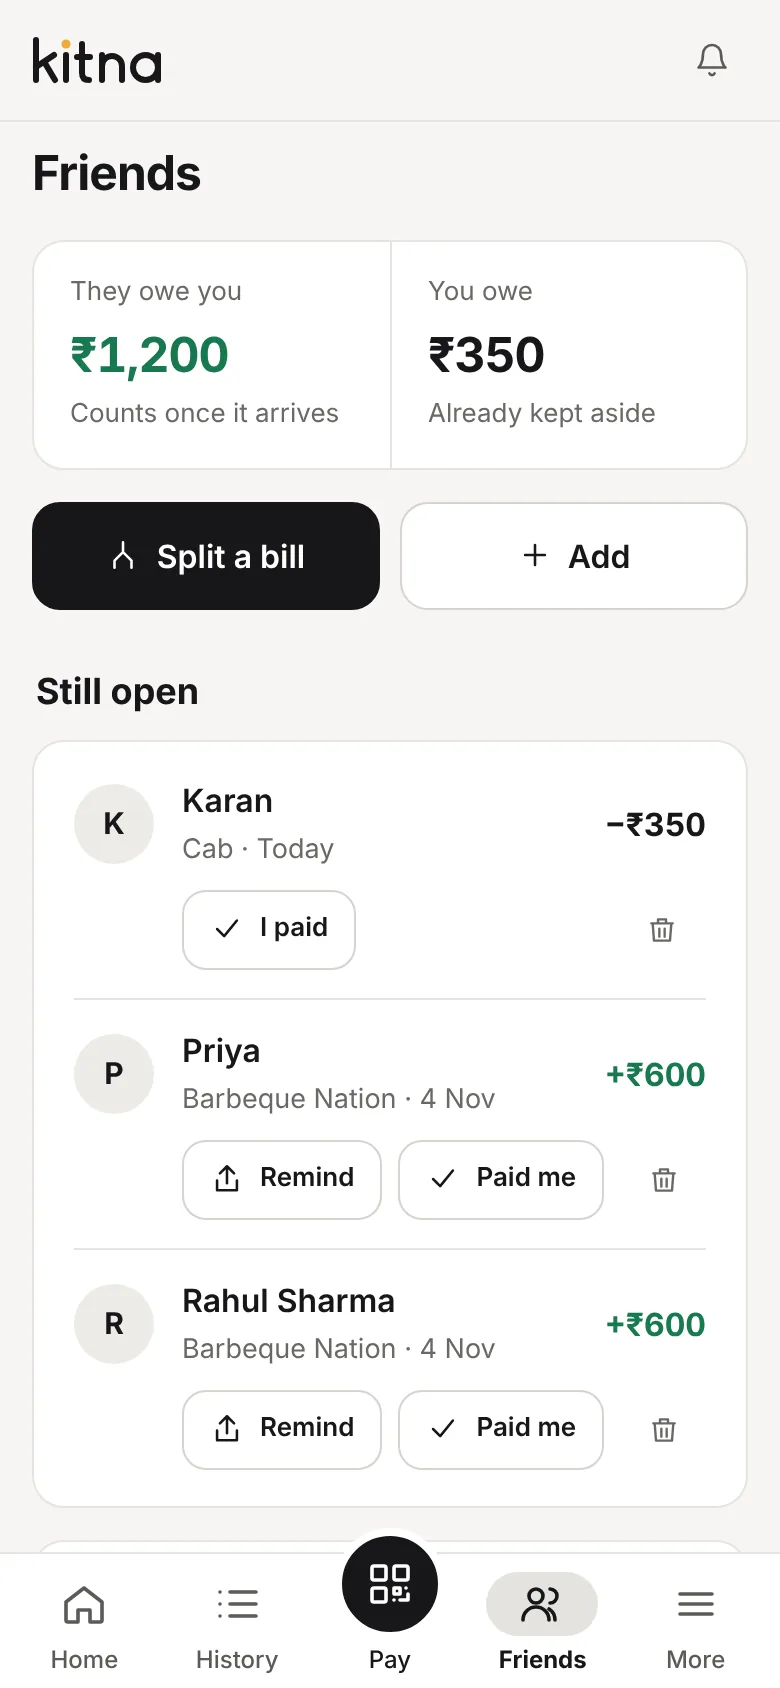
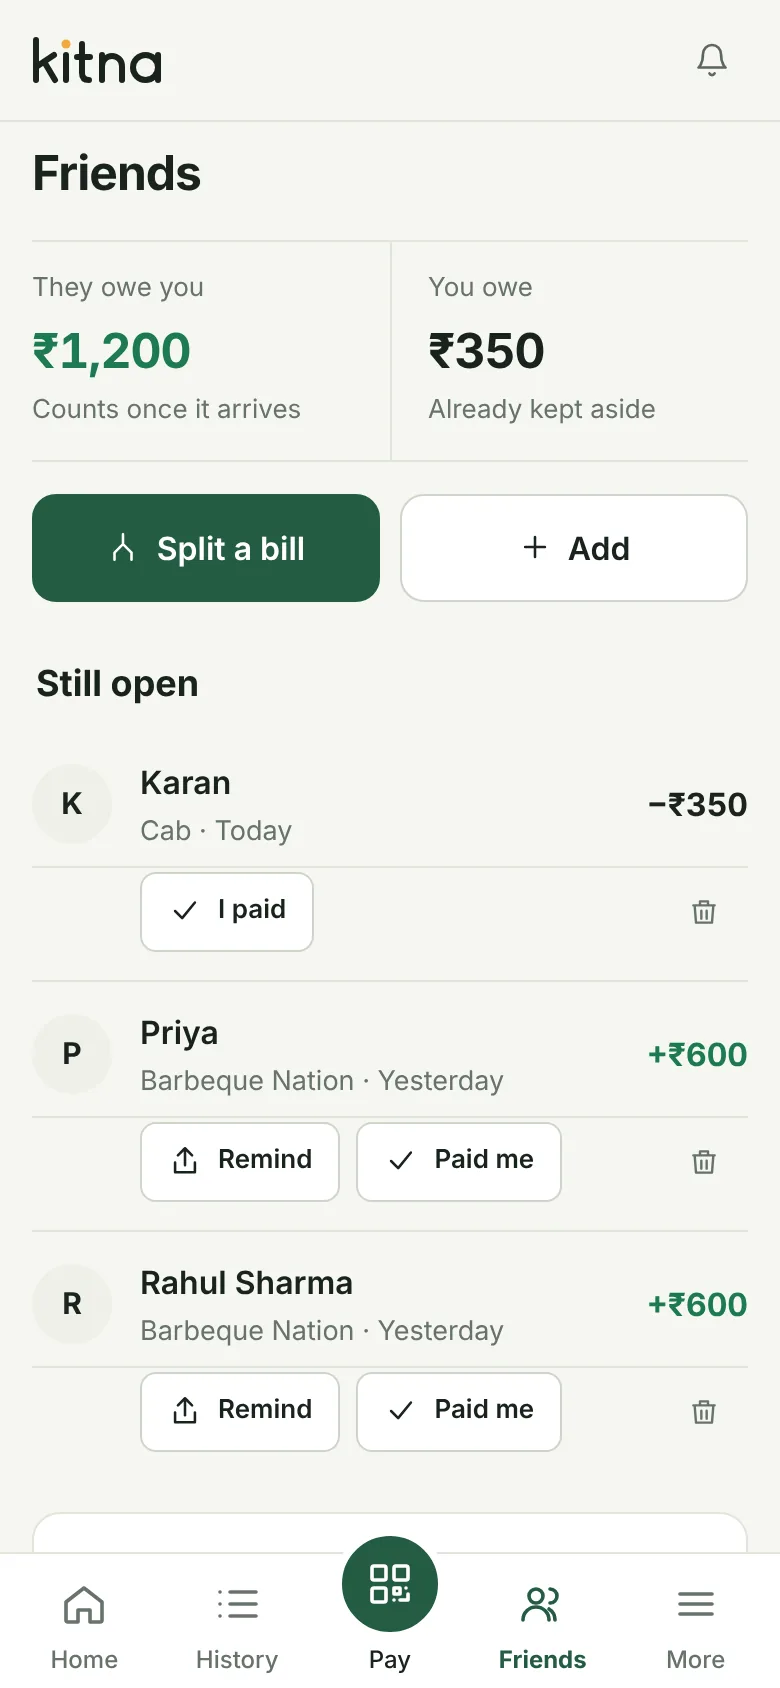
Colour: Alpine Forest (light) and Midnight Emerald (dark)
- One green for every action in both themes: #245C43 on off-white
  #F5F6F0 / white surfaces; #31A875 on near-black #101412 / charcoal.
- Semantic colours: income green, expense red, savings blue, warning
  amber. In light mode each is darkened just enough to pass 4.5:1 as text
  (e.g. income #1C7A50, secondary text #5B675F); all checked on every
  screen in both themes.
- App icon, maskable and Apple icons, link-preview image, emails, the
  Android companion and the phone status bar all move to the green.
- Charts use one green in steps. Initials avatar fixed for dark contrast.

Claude-Session: https://claude.ai/code/session_01Cmwmb7F6HRxQKC4Pw1w8YW

diff --git a/flux/static/css/app.css b/flux/static/css/app.css
@@ -118,7 +118,7 @@ p { margin: 0; }
 .icon-link { width: 36px; height: 36px; border-radius: 999px; display: grid; place-items: center; color: var(--muted); border: 0; background: transparent; cursor: pointer; }
  .icon-link.active { background: var(--surface-2); color: var(--text); }
 .icon-link svg { width: 18px; height: 18px; }
-.avatar { width: 34px; height: 34px; border-radius: 50%; display: grid; place-items: center; font-weight: 700; background: var(--brand-soft); color: var(--brand) !important; color: var(--text); font-size: 12px; flex-shrink: 0; letter-spacing: 0.02em; }
+.avatar { width: 34px; height: 34px; border-radius: 50%; display: grid; place-items: center; font-weight: 700; background: var(--brand-soft); color: var(--text); font-size: 12px; flex-shrink: 0; letter-spacing: 0.02em; }
 
 .main { max-width: var(--maxw); margin: 0 auto; padding: 32px 24px 140px; }
 .page-head { display: flex; align-items: flex-end; justify-content: space-between; gap: 16px; margin-bottom: 28px; flex-wrap: wrap; }
@@ -860,3 +860,45 @@ body { font-size: 16px; }
 .nav a[href="/app/pay"], .nav a[href="/app/pay"].active { border-radius: 8px; box-shadow: none; }
 /* Motion: only what explains something (sheets sliding up, loading rows) */
 .big-act:active, .quick:active .quick-ic, .person:active .avatar { transform: none; }
+
+/* ═══ Colour: Alpine Forest (light) and Midnight Emerald (dark) ══════════════
+   One green for everything you press, in both themes. Off-white page, white
+   surfaces; near-black page, charcoal surfaces. Semantic colours are darkened
+   in light mode so every text colour passes 4.5:1. */
+:root {
+  --bg: #F5F6F0; --surface: #FFFFFF; --surface-2: #EEF0E9; --surface-3: #E3E7DE;
+  --line: #E2E5DC; --line-2: #CFD5CA;
+  --text: #18231D; --muted: #5B675F; --faint: #66736A;
+  --brand: #245C43; --brand-hover: #1C4A36; --brand-ink: #FFFFFF; --brand-soft: #E4EEE6;
+  --green: #1C7A50; --green-soft: #E4F1E9;
+  --red: #B8423F; --red-soft: #FAE9E8;
+  --amber: #8F6211; --amber-soft: #F7EEDC;
+  --blue: #2F6E9F; --blue-soft: #E6EFF7;
+  --overlay: rgba(24, 35, 29, .45);
+  --t0b: #EEF0E9; --t0f: #18231D; --t1b: #EEF0E9; --t1f: #18231D; --t2b: #EEF0E9; --t2f: #18231D;
+  --t3b: #EEF0E9; --t3f: #18231D; --t4b: #EEF0E9; --t4f: #18231D; --t5b: #EEF0E9; --t5f: #18231D;
+}
+@media (prefers-color-scheme: dark) {
+  :root {
+    --bg: #101412; --surface: #1B211E; --surface-2: #232B27; --surface-3: #2C3530;
+    --line: #29312D; --line-2: #3A443F;
+    --text: #F3F5F2; --muted: #B3BCB5; --faint: #929C95;
+    --brand: #31A875; --brand-hover: #3BBA84; --brand-ink: #0B140F; --brand-soft: #1F3A2D;
+    --green: #4CC38A; --green-soft: #183326;
+    --red: #E8807D; --red-soft: #3A1F1E;
+    --amber: #E2B25E; --amber-soft: #33291A;
+    --blue: #7DB4E0; --blue-soft: #1B2B38;
+    --overlay: rgba(0, 0, 0, .6);
+    --t0b: #232B27; --t0f: #F3F5F2; --t1b: #232B27; --t1f: #F3F5F2; --t2b: #232B27; --t2f: #F3F5F2;
+    --t3b: #232B27; --t3f: #F3F5F2; --t4b: #232B27; --t4f: #F3F5F2; --t5b: #232B27; --t5f: #F3F5F2;
+  }
+}
+/* Green is the action colour: the Pay circle, the main buttons, the chosen tab and picture */
+.bottom-nav a.active { color: var(--brand); }
+.nav a.active { color: var(--brand); box-shadow: inset 0 -2px 0 var(--brand); }
+.cat-pick.on { border-color: var(--brand); background: var(--brand-soft); }
+.link-inline, .today-how { color: var(--brand); }
+.dot-live { background: var(--green); }
+/* Savings rows use the savings blue */
+.cat-ic.save { background: var(--blue-soft); color: var(--blue); }
+.avatar { background: var(--brand-soft); color: var(--text); }

diff --git a/flux/pages/landing.html b/flux/pages/landing.html
@@ -3,7 +3,7 @@
 <head>
   <meta charset="utf-8">
   <meta name="viewport" content="width=device-width, initial-scale=1">
-  <meta name="theme-color" content="#f6f5f2" media="(prefers-color-scheme: light)"><meta name="theme-color" content="#111113" media="(prefers-color-scheme: dark)">
+  <meta name="theme-color" content="#F5F6F0" media="(prefers-color-scheme: light)"><meta name="theme-color" content="#101412" media="(prefers-color-scheme: dark)">
   <title>Kitna · Pehle Kitna, phir kharcha.</title>
   <meta name="description" content="Pehle Kitna, phir kharcha. Kitna tells young Indians how much they can safely spend today. UPI and bank payments log themselves, plans and bills are kept aside, and failed payments are watched until the money comes back.">
   <meta property="og:title" content="Kitna · Pehle Kitna, phir kharcha.">

diff --git a/flux/static/js/core.js b/flux/static/js/core.js
@@ -151,7 +151,7 @@
     Subscriptions: "Subscriptions", "Investment Returns": "Returns", "Other Income": "Other", "Pocket Money": "Pocket money" };
   const catIcon = (c, extra) => el("div", { class: "cat-ic" + (extra ? " " + extra : ""), "aria-hidden": "true" }, icon(CAT_ICON[c] || "c-dots"));
   const catShort = (c) => CAT_SHORT[c] || c;
-  const CAT_COLORS = ["#17171a", "#4b4a4e", "#737176", "#9a989c", "#bcbabd", "#d6d4d6", "#e6e4e5", "#efeeee"];  // one ink, in steps
+  const CAT_COLORS = ["#245C43", "#3E7A5D", "#5C9678", "#8DAF91", "#A9C4AC", "#C6D8C8", "#DCE7DD", "#EEF3EE"];  // one green, in steps
 
   // ─── API client ───────────────────────────────────────────
   function csrf() {

diff --git a/flux/pages/coach.html b/flux/pages/coach.html
@@ -3,7 +3,7 @@
 <head>
   <meta charset="utf-8">
   <meta name="viewport" content="width=device-width, initial-scale=1, viewport-fit=cover">
-  <meta name="theme-color" content="#f6f5f2" media="(prefers-color-scheme: light)"><meta name="theme-color" content="#111113" media="(prefers-color-scheme: dark)">
+  <meta name="theme-color" content="#F5F6F0" media="(prefers-color-scheme: light)"><meta name="theme-color" content="#101412" media="(prefers-color-scheme: dark)">
   <title>Coach & insights · Kitna</title>
   <link rel="icon" href="/static/img/icon.svg" type="image/svg+xml">
   <link rel="manifest" href="/manifest.webmanifest">

diff --git a/flux/pages/import.html b/flux/pages/import.html
@@ -3,7 +3,7 @@
 <head>
   <meta charset="utf-8">
   <meta name="viewport" content="width=device-width, initial-scale=1, viewport-fit=cover">
-  <meta name="theme-color" content="#f6f5f2" media="(prefers-color-scheme: light)"><meta name="theme-color" content="#111113" media="(prefers-color-scheme: dark)">
+  <meta name="theme-color" content="#F5F6F0" media="(prefers-color-scheme: light)"><meta name="theme-color" content="#101412" media="(prefers-color-scheme: dark)">
   <title>Import statement · Kitna</title>
   <link rel="icon" href="/static/img/icon.svg" type="image/svg+xml">
   <link rel="manifest" href="/manifest.webmanifest">

diff --git a/flux/pages/know.html b/flux/pages/know.html
@@ -3,7 +3,7 @@
 <head>
   <meta charset="utf-8">
   <meta name="viewport" content="width=device-width, initial-scale=1, viewport-fit=cover">
-  <meta name="theme-color" content="#f6f5f2" media="(prefers-color-scheme: light)"><meta name="theme-color" content="#111113" media="(prefers-color-scheme: dark)">
+  <meta name="theme-color" content="#F5F6F0" media="(prefers-color-scheme: light)"><meta name="theme-color" content="#101412" media="(prefers-color-scheme: dark)">
   <title>What Kitna knows · Kitna</title>
   <link rel="icon" href="/static/img/icon.svg" type="image/svg+xml">
   <link rel="manifest" href="/manifest.webmanifest">

diff --git a/flux/pages/budgets.html b/flux/pages/budgets.html
@@ -3,7 +3,7 @@
 <head>
   <meta charset="utf-8">
   <meta name="viewport" content="width=device-width, initial-scale=1, viewport-fit=cover">
-  <meta name="theme-color" content="#f6f5f2" media="(prefers-color-scheme: light)"><meta name="theme-color" content="#111113" media="(prefers-color-scheme: dark)">
+  <meta name="theme-color" content="#F5F6F0" media="(prefers-color-scheme: light)"><meta name="theme-color" content="#101412" media="(prefers-color-scheme: dark)">
   <title>Monthly limits · Kitna</title>
   <link rel="icon" href="/static/img/icon.svg" type="image/svg+xml">
   <link rel="manifest" href="/manifest.webmanifest">

diff --git a/flux/pages/pay.html b/flux/pages/pay.html
@@ -3,7 +3,7 @@
 <head>
   <meta charset="utf-8">
   <meta name="viewport" content="width=device-width, initial-scale=1, viewport-fit=cover">
-  <meta name="theme-color" content="#f6f5f2" media="(prefers-color-scheme: light)"><meta name="theme-color" content="#111113" media="(prefers-color-scheme: dark)">
+  <meta name="theme-color" content="#F5F6F0" media="(prefers-color-scheme: light)"><meta name="theme-color" content="#101412" media="(prefers-color-scheme: dark)">
   <title>Scan &amp; Pay · Kitna</title>
   <link rel="icon" href="/static/img/icon.svg" type="image/svg+xml">
   <link rel="manifest" href="/manifest.webmanifest">

diff --git a/flux/pages/share.html b/flux/pages/share.html
@@ -3,7 +3,7 @@
 <head>
   <meta charset="utf-8">
   <meta name="viewport" content="width=device-width, initial-scale=1, viewport-fit=cover">
-  <meta name="theme-color" content="#f6f5f2" media="(prefers-color-scheme: light)"><meta name="theme-color" content="#111113" media="(prefers-color-scheme: dark)">
+  <meta name="theme-color" content="#F5F6F0" media="(prefers-color-scheme: light)"><meta name="theme-color" content="#101412" media="(prefers-color-scheme: dark)">
   <title>Track from SMS · Kitna</title>
   <link rel="icon" href="/static/img/icon.svg" type="image/svg+xml">
   <link rel="manifest" href="/manifest.webmanifest">

diff --git a/flux/pages/goals.html b/flux/pages/goals.html
@@ -3,7 +3,7 @@
 <head>
   <meta charset="utf-8">
   <meta name="viewport" content="width=device-width, initial-scale=1, viewport-fit=cover">
-  <meta name="theme-color" content="#f6f5f2" media="(prefers-color-scheme: light)"><meta name="theme-color" content="#111113" media="(prefers-color-scheme: dark)">
+  <meta name="theme-color" content="#F5F6F0" media="(prefers-color-scheme: light)"><meta name="theme-color" content="#101412" media="(prefers-color-scheme: dark)">
   <title>Savings goals · Kitna</title>
   <link rel="icon" href="/static/img/icon.svg" type="image/svg+xml">
   <link rel="manifest" href="/manifest.webmanifest">

diff --git a/flux/pages/dashboard.html b/flux/pages/dashboard.html
@@ -3,7 +3,7 @@
 <head>
   <meta charset="utf-8">
   <meta name="viewport" content="width=device-width, initial-scale=1, viewport-fit=cover">
-  <meta name="theme-color" content="#f6f5f2" media="(prefers-color-scheme: light)"><meta name="theme-color" content="#111113" media="(prefers-color-scheme: dark)">
+  <meta name="theme-color" content="#F5F6F0" media="(prefers-color-scheme: light)"><meta name="theme-color" content="#101412" media="(prefers-color-scheme: dark)">
   <title>Dashboard · Kitna</title>
   <link rel="icon" href="/static/img/icon.svg" type="image/svg+xml">
   <link rel="manifest" href="/manifest.webmanifest">

diff --git a/flux/pages/plans.html b/flux/pages/plans.html
@@ -3,7 +3,7 @@
 <head>
   <meta charset="utf-8">
   <meta name="viewport" content="width=device-width, initial-scale=1, viewport-fit=cover">
-  <meta name="theme-color" content="#f6f5f2" media="(prefers-color-scheme: light)"><meta name="theme-color" content="#111113" media="(prefers-color-scheme: dark)">
+  <meta name="theme-color" content="#F5F6F0" media="(prefers-color-scheme: light)"><meta name="theme-color" content="#101412" media="(prefers-color-scheme: dark)">
   <title>Upcoming · Kitna</title>
   <link rel="icon" href="/static/img/icon.svg" type="image/svg+xml">
   <link rel="manifest" href="/manifest.webmanifest">
